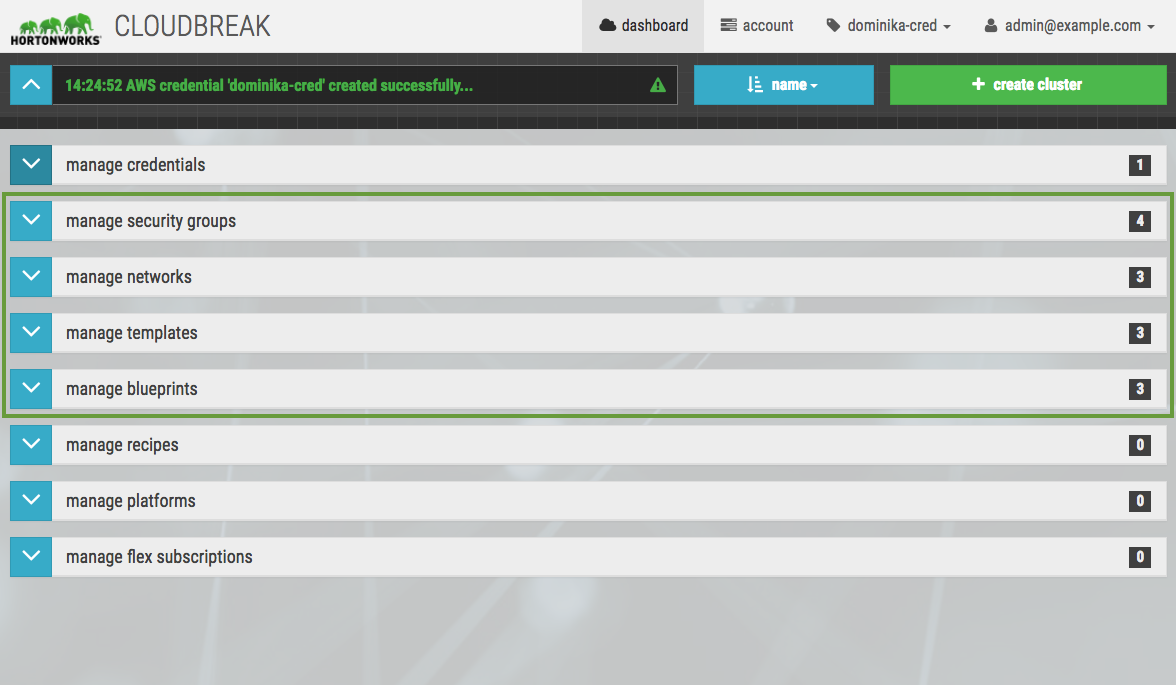
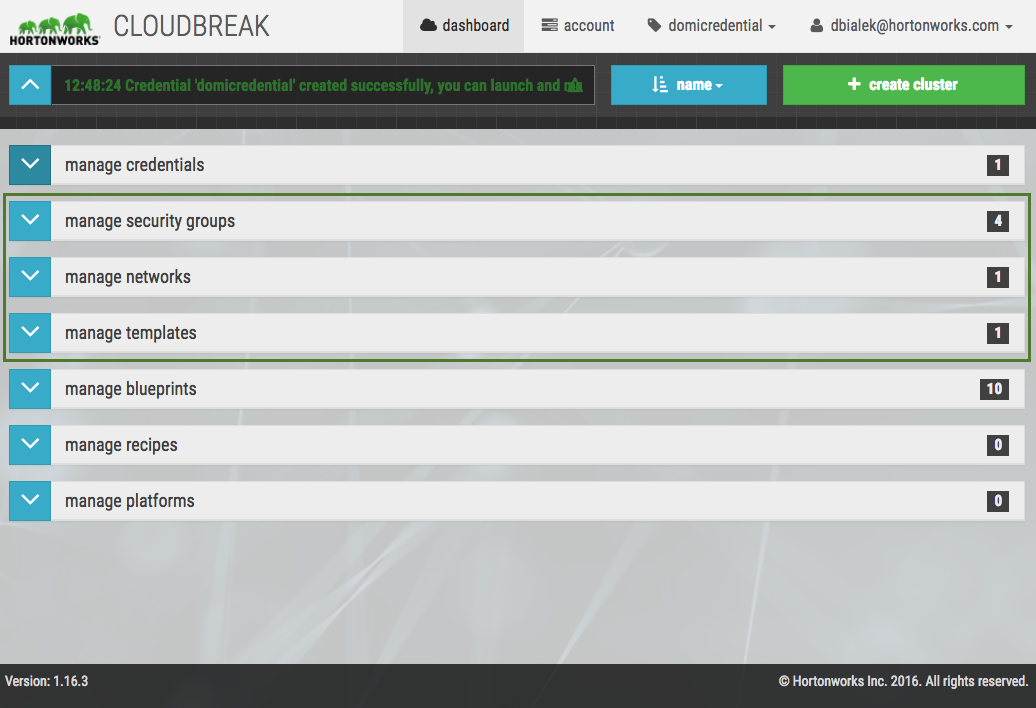
Edits

diff --git a/docs/os-config.md b/docs/os-config.md
@@ -1,17 +1,13 @@
-## Define Infrastructure Templates and Blueprints 
+## Define Infrastructure Templates
 
-After you've logged in to Cloudbreak and created a Cloudbreak credential, you must:
-
-* Define infrastructure templates for certain cluster resources  
-* Define cluster blueprints or reuse default bluepritnts  
+After you've logged in to Cloudbreak and created a Cloudbreak credential, you must define infrastructure templates for certain cluster resources.  
 
 The **infrastructure templates** for resources such as **networks**, **security groups**, and **VMs and storage** are saved to Cloudbreak's database and can be reused with multiple clusters to describe the infrastructure. When you add these resources in Cloudbreak web UI, Cloudbreak does not make any requests to your cloud provider account. Resources are only created on your cloud provider account after the create cluster button has been pushed. 
 
-Similarly, **blueprints** are saved to Cloudbreak's database and can be reused with multiple clusters to describe the cluster components.
 
 This is illustrated and further explained in the [Architecture](architecture.md#cloudbreak-application-architecture) documentation.
 
-You can add infrastructure templates and blueprints after expanding their corresponding panes in the Cloudbreak web UI (shown in the screenshot) as described in the documentation below.  
+You can add infrastructure templates after expanding their corresponding panes in the Cloudbreak web UI (shown in the screenshot) as described in the documentation below.  
 
 <a href="../images/cb-reusable-configs.png" target="_blank" title="click to enlarge"><img src="../images/cb-reusable-configs.png" width="650" title="Azure Portal"></a> 
 
@@ -24,7 +20,6 @@ The following table describes the basic configurations for which you must create
 | [Networks](#networks) |(Required) Virtual networks provide the networking infrastructure (network, subnet, Internet gateway, and so on) in which your clusters run. You can create new virtual networks or reuse existing virtual networks for your clusters. | You can select the network configuration for your clusters in the **Create Cluster** wizard > **Set up Network and Security** page. | No |
 | [Security Groups](#security-groups) | (Required) Security groups include rules which define inbound traffic allowed to the instances in your cluster. You can define different security group configurations for different nodes of your cluster. | You can select the security group configurations for each host group in the **Create Cluster** wizard > **Choose Blueprint** page. If no custom security groups are selected, default is used. | Yes | 
 | [VMs and Storage](#vms-and-storage) | (Required) "Templates" define the infrastructure for your clusters: the instances on which your clusters run and their attached storage type, size, and count. You can reuse the same template for different cluster host groups or create different templates for different host groups. | You can select infrastructure templates for each host group in the **Create Cluster** wizard > **Choose Blueprint** page. | No |
-| [Blueprints](#blueprints) | (Required) Blueprints are your declarative definition of a Hadoop cluster, defining the host groups and which components to install on which host group. Ambari uses them as a base for your clusters. | You can select a blueprint for your cluster in the **Create Cluster** wizard > **Choose Blueprint** page. A few default blueprints are available. | Yes | 
 
 The "Preconfigured" column indicates whether a default template is available, indicating that templates are available for security groups and blueprints. 
 
@@ -154,12 +149,8 @@ You can define reusable cluster templates in the **manage templates** tab:
     No resources will be created until you create a cluster using this configuration.
  
 
-### Blueprints 
-
-{!docs/common/blueprints.md!}  
-
 
 
 <div class="next">
-<a href="../os-create/index.html">Next: Create a Cluster</a>
+<a href="../os-blueprints/index.html">Next: Create a Cluster</a>
 </div>

diff --git a/docs/gcp-config.md b/docs/gcp-config.md
@@ -1,4 +1,4 @@
-## Define Infrastructure Templates and Blueprints  
+## Define Infrastructure Templates 
 
 {!docs/common/config-1-overview.md!}   
 
@@ -8,8 +8,6 @@
 | [Networks](#networks) |(Required) Virtual networks provide the networking infrastructure (network, subnet, Internet gateway, and so on) in which your clusters run. Virtual networks on GCP are called VPC networks. You can create new virtual networks or reuse existing virtual networks for your clusters. For basic information VPC networks, refer to [GCP documentation](https://cloud.google.com/compute/docs/vpc/). | You can select the network configuration for your clusters in the **Create Cluster** wizard > **Set up Network and Security** page. If no custom network is selected, default is used. | 
 | [Security Groups](#security-groups) | (Required) Security groups include rules which define inbound traffic allowed to the instances in your cluster. You can define different security group configurations for different nodes of your cluster. The security group rules in Cloudbreak correspond with the firewall rules on GCP. To learn more about firewall rules on GCP, refer to [GCP documentation](https://cloud.google.com/compute/docs/vpc/firewalls). | You can select the security group configurations for each host group in the **Create Cluster** wizard > **Choose Blueprint** page. If no custom security groups are selected, default is used. | 
 | [VMs and Storage](#vms-and-storage) | (Required) "Templates" define the GCP infrastructure for the instances on which your cluster runs. You can select the VM instance types and their attached storage, including storage type, size, and count. You can reuse the same template for different cluster host groups or create different templates for different host groups.  | You can select infrastructure templates for each host group  in the **Create Cluster** wizard > **Choose Blueprint** page. If no custom templates are selected, default is used. | 
-| [Blueprints](#blueprints) | (Required) Blueprints are your declarative definition of a Hadoop cluster, defining the host groups and which components to install on which host group. Ambari uses them as a base for your clusters. | You can select a blueprint for your cluster in the **Create Cluster** wizard > **Choose Blueprint** page. A few default blueprints are available. |  
-
  
 
 ### Networks
@@ -195,13 +193,8 @@ You can define reusable cluster templates in the **manage templates** tab:
     No resources will be created until you create a cluster using this configuration.
 
 
-### Blueprints 
-
-{!docs/common/blueprints.md!}  
-
-
 
 
 <div class="next">
-<a href="../gcp-create/index.html">Next: Create a Cluster</a>
+<a href="../gcp-blueprints/index.html">Next: Create a Cluster</a>
 </div>

diff --git a/docs/common/blueprints.md b/docs/common/blueprints.md
@@ -1,9 +1,14 @@
+**Cluster blueprints** are your declarative definition of a Hadoop cluster, defining the host groups and which components to install on which host group. Ambari uses them as a base for your clusters. 
 
-You have two options:
+You have three options:
 
 * Use one of the pre-defined blueprints.  
 * Copy and edit one of the pre-defined blueprints.   
-* Add your custom blueprint by uploading a JSON file or pasting the JSON text.  
+* Add your custom blueprint by uploading a JSON file or pasting the JSON text. 
+
+We recommend that you review the default blueprints to check if they meet your requirements. You can do this by expanding  the **manage bluerints** pane in the Cloudbreak web UI (shown in the screenshot) or by reading the documentation below.  
+
+<a href="../images/cb-blueprints.png" target="_blank" title="click to enlarge"><img src="../images/cb-blueprints.png" width="650" title="Azure Portal"></a> 
 
 [Here](https://raw.githubusercontent.com/sequenceiq/cloudbreak/master/integration-test/src/main/resources/blueprint/multi-node-hdfs-yarn.bp) is an example of a blueprint. 
 
@@ -13,7 +18,7 @@ A blueprint can be modified later from the Ambari UI.
 
 A blueprint can be exported from a running Ambari cluster and can be reused in Cloudbreak after slight modifications. When a blueprint is exported, some configurations are hardcoded for example domain names, memory configurations, and so on, that won't be applicable to the Cloudbreak cluster. There is no automatic way to modify an exported blueprint and make it instantly usable in Cloudbreak, the modifications have to be done manually.
 
-#### Default Blueprints 
+### Default Blueprints 
 
 Cloudbreak includes three default HDP cluster blueprints:
 
@@ -25,12 +30,12 @@ Cloudbreak includes three default HDP cluster blueprints:
 | hdp-spark-cluster | Launch a multi-node HDP 2.4 cluster optimized for Spark analytic jobs. | HDFS, YARN, MAPREDUCE2, SPARK, ZEPPELIN, KNOX, HBASE, HIVE, HCATALOG, WEBHCAT, SLIDER, OOZIE, PIG, SQOOP, METRICS, TEZ, FALCON, ZOOKEEPER | [hdp-spark-cluster.bp](https://raw.githubusercontent.com/hortonworks/cloudbreak/master/core/src/main/resources/defaults/blueprints/hdp-spark-cluster.bp) |
 
 
-#### Copy and Edit Existing Blueprint 
+### Copy and Edit Existing Blueprint 
 
 You can modify default or previously added blueprints in the **manage blueprints** tab. To do that, expand the entry in the Cloudbreak UI and then click **copy & edit**. 
 
 
-#### Add Custom Blueprint
+### Add Custom Blueprint
 
 You can define reusable blueprints for your clusters in the **manage blueprints** tab. To add your own blueprint, click **+create blueprint** and enter the following parameters:
 

diff --git a/docs/aws-config.md b/docs/aws-config.md
@@ -1,4 +1,4 @@
-## Define Infrastructure Templates and Blueprints  
+## Define Infrastructure Templates 
 
 {!docs/common/config-1-overview.md!}  
 
@@ -8,7 +8,6 @@
 | [Networks](#networks) |(Required) Virtual networks provide the networking infrastructure (network, subnet, Internet gateway, and so on) in which your clusters run. A virtual network on AWS is called Amazon Virtual Private Cloud (Amazon VPC). You can create new virtual networks or reuse existing virtual networks for your clusters. For basic information about VPCs and subnets on AWS, refer to [AWS documentation](http://docs.aws.amazon.com/AmazonVPC/latest/UserGuide/VPC_Subnets.html). | You can select the network configuration for your clusters in the **Create Cluster** wizard > **Set up Network and Security** page. | 
 | [Security Groups](#security-groups) | (Required) Security groups include rules which define inbound traffic allowed to the instances in your cluster. You can define different security group configurations for different nodes of your cluster. For basic information about security groups on AWS, refer to [AWS documentation](http://docs.aws.amazon.com/AmazonVPC/latest/UserGuide/VPC_SecurityGroups.html). | You can select the security group configurations for each host group in the **Create Cluster** wizard > **Choose Blueprint** page. If no custom security groups are selected, default is used. | 
 | [VMs and Storage](#vms-and-storage) | (Required) "Templates" define the AWS infrastructure for the instances on which your cluster runs. You can select the EC2 instance types and their attached storage, including storage type, size, count, and encryption settings. You can reuse the same template for different cluster host groups or create different templates for different host groups. | You can select a template for each host group in the **Create Cluster** wizard > **Choose Blueprint** page. If no custom templates are selected, default is used. | 
-| [Blueprints](#blueprints) | (Required) Blueprints are your declarative definition of a Hadoop cluster, defining the host groups and which components to install on which host group. Ambari uses them as a base for your clusters. | You can select a blueprint for your cluster in the **Create Cluster** wizard > **Choose Blueprint** page. A few default blueprints are available. |   
 
 
 ### Networks
@@ -203,13 +202,6 @@ You can define reusable configurations in the **manage templates** tab:
     
 
 
-### Blueprints 
-
-{!docs/common/blueprints.md!}  
-
-
-
-
 <div class="next">
-<a href="../aws-create/index.html">Next: Create a Cluster</a>
+<a href="../aws-blueprints/index.html">Next: Create a Cluster</a>
 </div>

diff --git a/docs/azure-config.md b/docs/azure-config.md
@@ -1,4 +1,4 @@
-## Define Infrastructure Templates and Blueprints 
+## Define Infrastructure Templates
 
 {!docs/common/config-1-overview.md!}    
 
@@ -8,7 +8,6 @@
 | [Networks](#networks) |(Required) Virtual networks provide the networking infrastructure (network, subnet, Internet gateway, and so on) in which your clusters run. You can create new virtual networks or reuse existing virtual networks for your clusters. Virtual networks on Azure are called Azure Virtual Networks (VNets). For basic information about VNets, refer to [Azure documentation](https://docs.microsoft.com/en-us/azure/virtual-network/virtual-networks-overview). | You can select the network configuration for your clusters in the **Create Cluster** wizard > **Set up Network and Security** page. If no custom network is selected, default is used. | 
 | [Security Groups](#security-groups) | (Required) Security groups include rules which define inbound traffic allowed to the instances in your cluster. You can define different security group configurations for different nodes of your cluster. For basic information about security groups on Azure, refer to [Azure documentation](https://docs.microsoft.com/en-us/azure/virtual-network/virtual-networks-nsg). | You can select the security group configurations for each host group in the **Create Cluster** wizard > **Choose Blueprint** page. If no custom security groups are selected, default is used. | 
 | [VMs and Storage](#vms-and-storage) | (Required) "Templates" define the Azure infrastructure for the instances on which your cluster runs. You can select the VM types and their attached storage, including storage type, size, and count. You can reuse the same template for different cluster host groups or create different templates for different host groups. | You can select infrastructure templates for each host group in the **Create Cluster** wizard > **Choose Blueprint** page. If no custom templates are selected, default is used. | 
-| [Blueprints](#blueprints) | (Required) Blueprints are your declarative definition of a Hadoop cluster, defining the host groups and which components to install on which host group. Ambari uses them as a base for your clusters. | You can select a blueprint for your cluster in the **Create Cluster** wizard > **Choose Blueprint** page. A few default blueprints are available. |  
 
 
 
@@ -144,12 +143,6 @@ You can define reusable cluster templates in the **manage templates** tab:
 3. Click on **+create template**.
 
     No resources will be created until you create a cluster using this configuration.
-
-
-### Blueprints 
-
-{!docs/common/blueprints.md!}  
-
 
 
 

diff --git a/docs/common/config-1-overview.md b/docs/common/config-1-overview.md
@@ -1,22 +1,18 @@
 After you've logged in to Cloudbreak and created a Cloudbreak credential, you have two options:
 
-* Create clusters using default infrastructure templates and blueprints       
-* Define your own infrastructure templates and blueprints  
+* Create clusters using default infrastructure templates      
+* Define your own infrastructure templates   
 
 The **infrastructure templates** for resources such as **networks**, **security groups**, and **VMs and storage** are saved to Cloudbreak's database and can be reused with multiple clusters to describe the infrastructure. When you add these resources in Cloudbreak web UI, Cloudbreak does not make any requests to your cloud provider account. Resources are only created on your cloud provider account after the create cluster button has been pushed. 
 
-Similarly, **blueprints** are saved to Cloudbreak's database and can be reused with multiple clusters to describe the cluster components.
-
 This is illustrated and further explained in the [Architecture](architecture.md#cloudbreak-application-architecture) documentation.
 
-We recommend that you review the default infrastructure  templates for networks, security groups, and VMs and storage, as well as default blueprints to check if they meet your requirements. You can do this by expanding  their corresponding panes in the Cloudbreak web UI (shown in the screenshot) or by reading the documentation below. 
-
-> If you decide to use the default infrastructure  templates, there is no further action at this point. You can proceed to [create a cluster](azure-create.md). 
+We recommend that you review the default infrastructure  templates for networks, security groups, and VMs and storage to check if they meet your requirements. You can do this by expanding  their corresponding panes in the Cloudbreak web UI (shown in the screenshot) or by reading the documentation below.  
 
 <a href="../images/cb-reusable-configs.png" target="_blank" title="click to enlarge"><img src="../images/cb-reusable-configs.png" width="650" title="Azure Portal"></a> 
 
 
-The following table describes the basic configurations that require an infrastructure template. If the default infrastructure templates don't work for you, you must create custom templates:
+The following table describes the basic configurations that require an infrastructure template. If the default infrastructure templates don't work for you, you must create custom templates.
  
 
 

diff --git a/docs/azure-blueprints.md b/docs/azure-blueprints.md
@@ -1,0 +1,12 @@
+## Define Cluster Blueprints 
+
+{!docs/common/blueprints.md!}  
+
+
+
+
+<div class="next">
+<a href="../azure-blueprints/index.html">Next: Create a Cluster</a>
+</div>
+
+

diff --git a/docs/gcp-blueprints.md b/docs/gcp-blueprints.md
@@ -1,0 +1,11 @@
+## Define Cluster Blueprints  
+
+
+{!docs/common/blueprints.md!}  
+
+
+
+
+<div class="next">
+<a href="../gcp-create/index.html">Next: Create a Cluster</a>
+</div>

diff --git a/docs/aws-blueprints.md b/docs/aws-blueprints.md
@@ -1,0 +1,9 @@
+## Define Cluster Blueprints  
+  
+
+{!docs/common/blueprints.md!}  
+
+
+<div class="next">
+<a href="../aws-create/index.html">Next: Create a Cluster</a>
+</div>

diff --git a/docs/os-blueprints.md b/docs/os-blueprints.md
@@ -1,0 +1,10 @@
+## Define Cluster Blueprints 
+
+
+{!docs/common/blueprints.md!}  
+
+
+
+<div class="next">
+<a href="../os-create/index.html">Next: Create a Cluster</a>
+</div>
